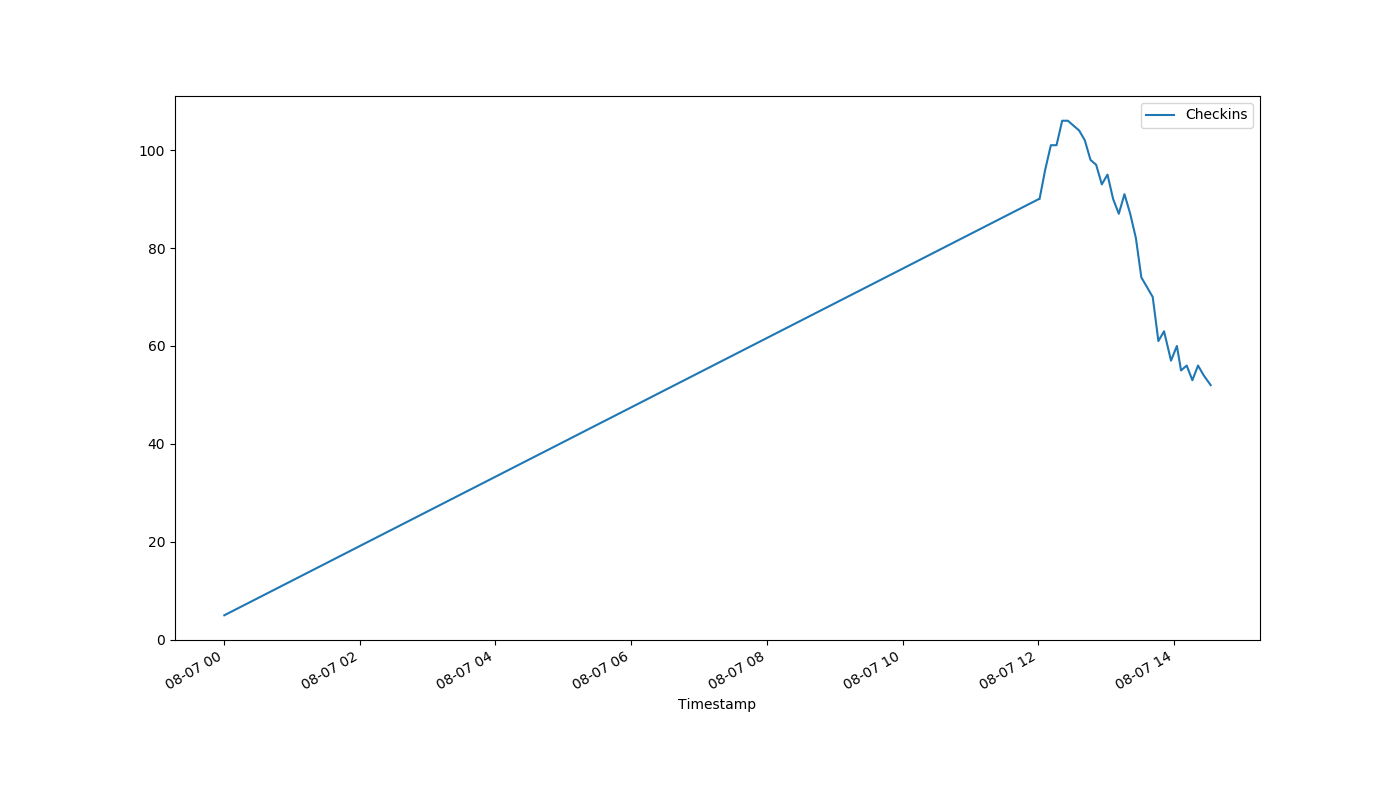
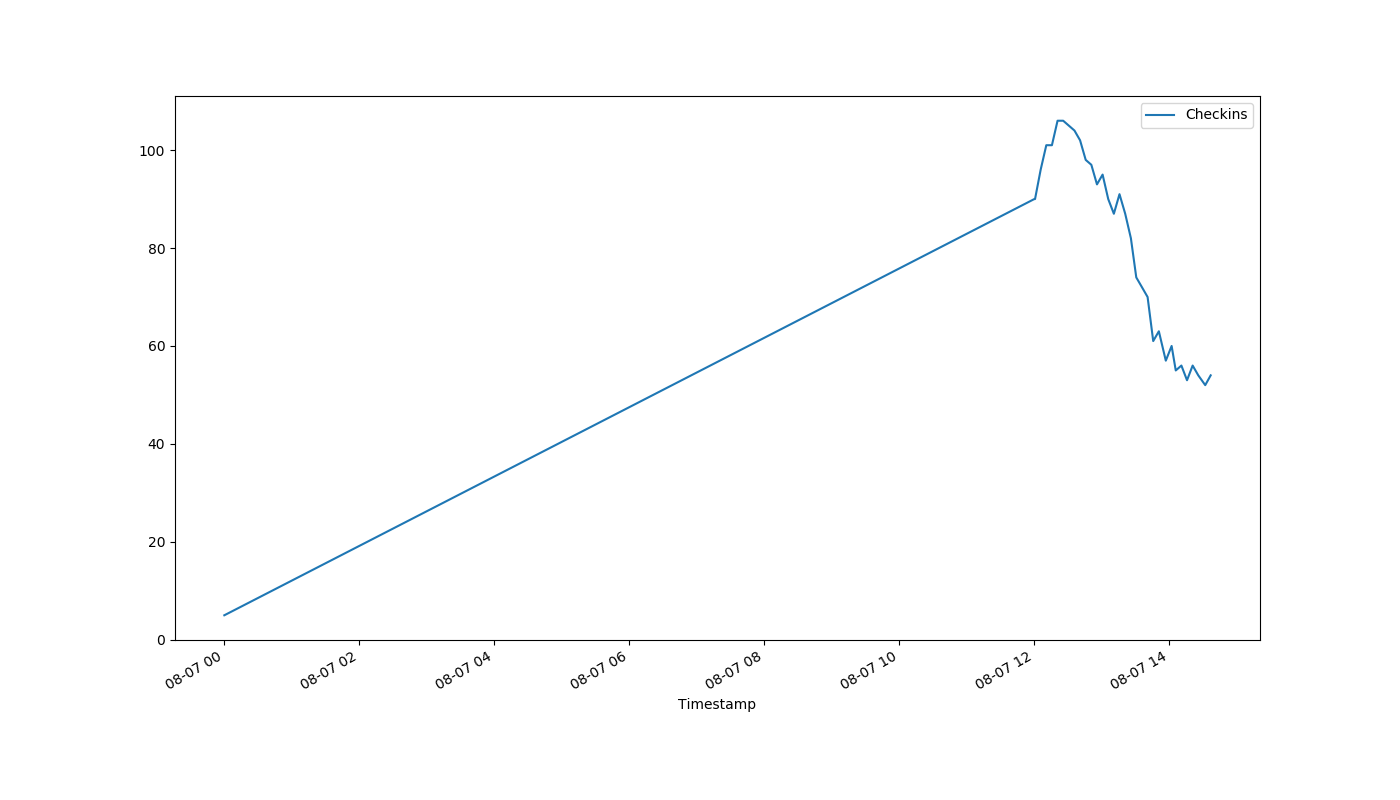
auto-Aug-07-14:38:01

diff --git a/index.html b/index.html
@@ -1,1 +1,1 @@
-<!DOCTYPE html><html><head><meta http-equiv="refresh" content="30"><link rel='stylesheet' href='holmcurrent.css'></head><body><p id='count'>52</p><div id='graph-wrap'><img id='graph' src='holmgraph-Aug-07.png'></div><p id='updated'>Last updated 14:33:15 / 14:32:20</p></body></html>
+<!DOCTYPE html><html><head><meta http-equiv="refresh" content="30"><link rel='stylesheet' href='holmcurrent.css'></head><body><p id='count'>54</p><div id='graph-wrap'><img id='graph' src='holmgraph-Aug-07.png'></div><p id='updated'>Last updated 14:37:15 / 14:37:10</p></body></html>
